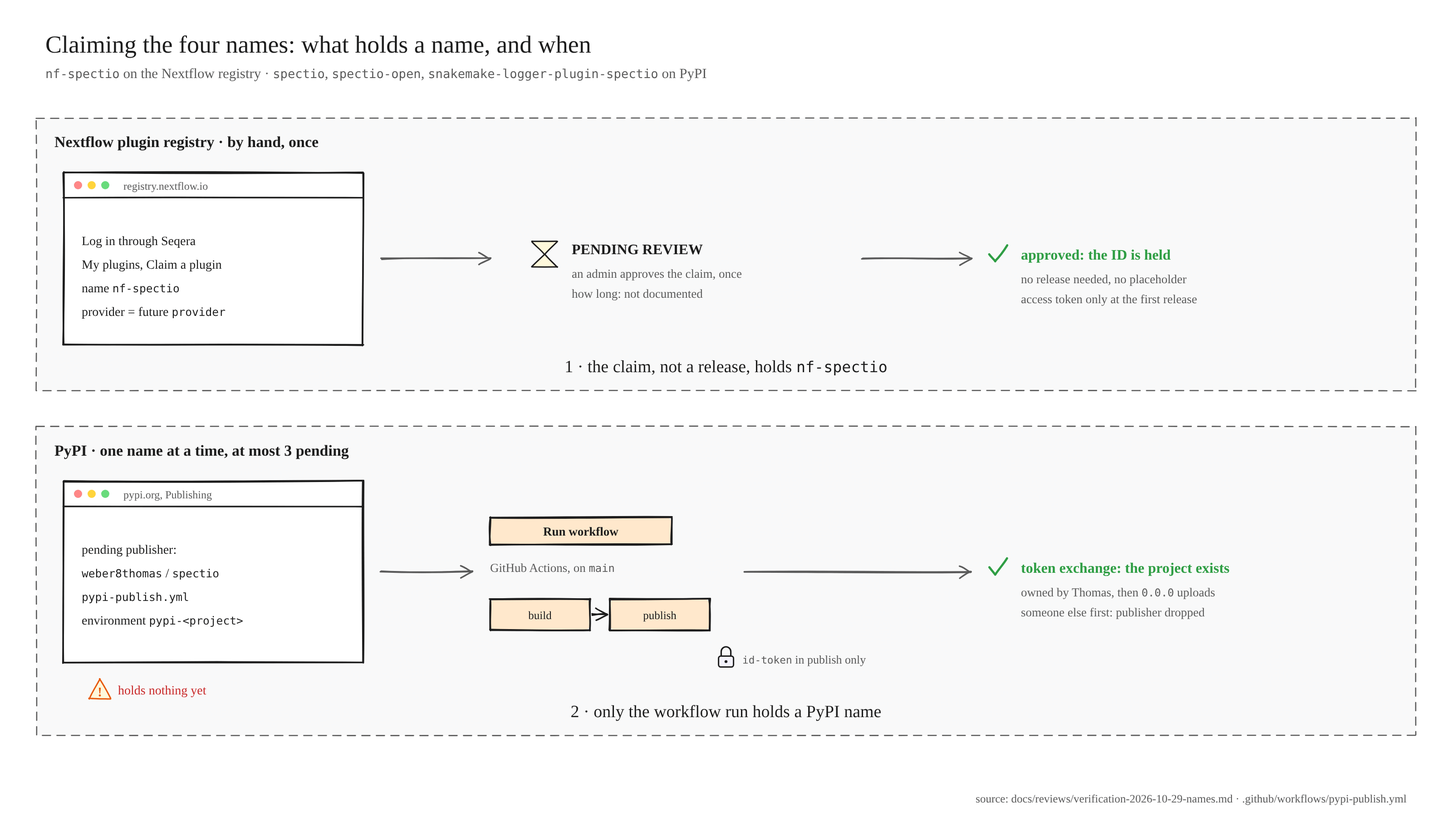
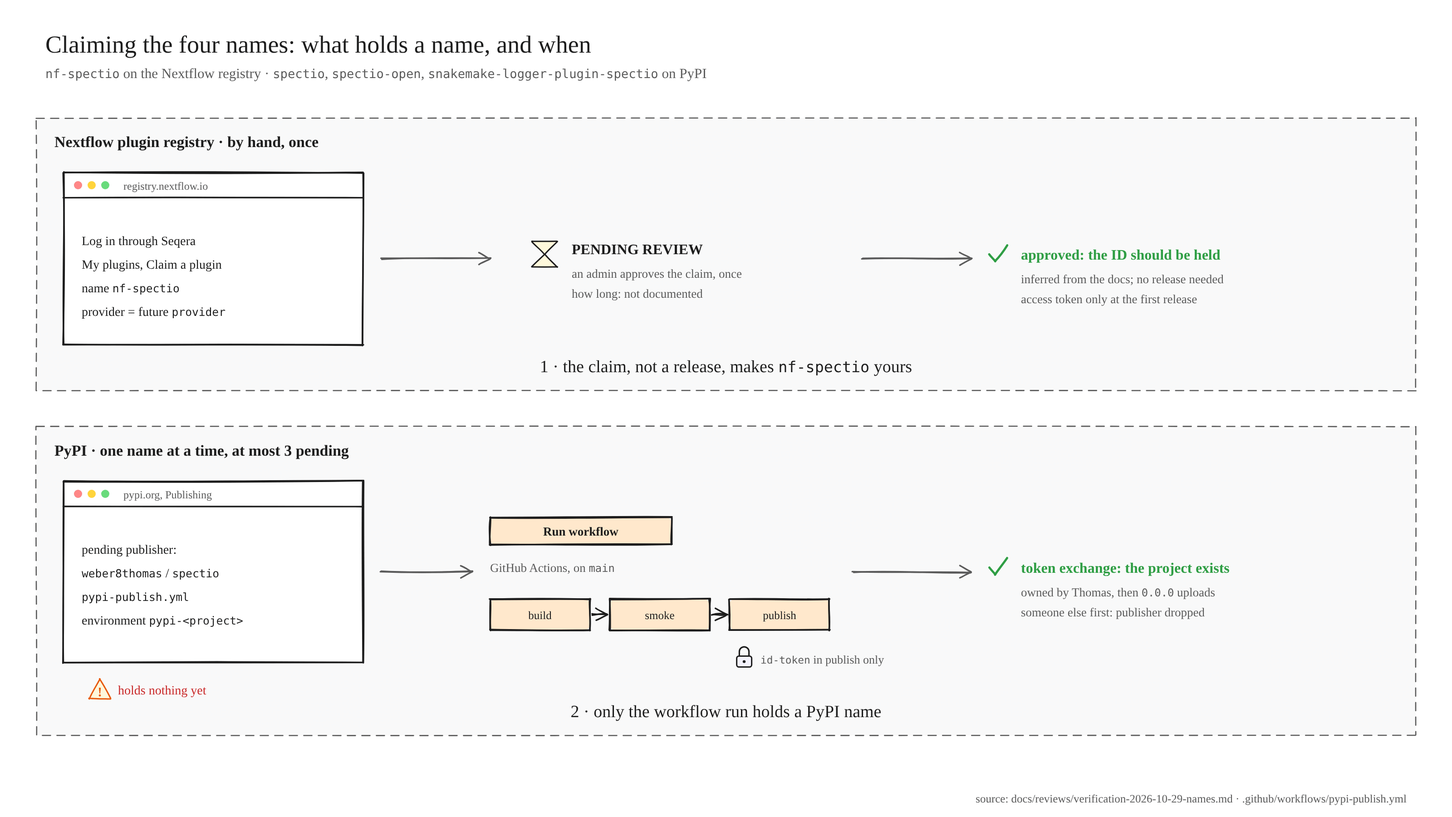
docs(release): record round 2 of the NAMES review and hedge the Nextflow outcome
- Guide §2.2: no agent session holds a token of the reviewer's account
  with actions:write or deployment approval (SEC-1b); §2.4 follows the
  new job split; §4 links inbox #71.
- Inbox #71 asks Thomas about deny rules for the commands that start or
  approve a publish; #66's status is hedged (CR-009).
- The figure draws build, smoke, publish and says the approved claim
  should hold the ID; both themes re-rendered.
- Progress page: review approve 12/14, the §3.2 headings, new evidence.
- Review record: round 2 verdicts and every finding's status.

Claude-Session: https://claude.ai/code/session_01MF8RxP4jdhwH8cJGq3VUWM

diff --git a/tools/diagrams/name_claim.py b/tools/diagrams/name_claim.py
@@ -6,12 +6,13 @@ Writes docs/assets/diagrams/name-claim_{light,dark}.{svg,png}.
 Every fact comes from docs/reviews/verification-2026-10-29-names.md (FC-314 to FC-317) and
 .github/workflows/pypi-publish.yml:
 - registry.nextflow.io: sign in through Seqera, My plugins, Claim a plugin with a name and a provider;
-  the claim waits as PENDING REVIEW until an admin approves it; an approved claim holds the ID with no
-  release (nextflow docs/plugins/plugin-registry.mdx:14-40, docs/guides/gradle-plugin.mdx:107-111);
+  the claim waits as PENDING REVIEW until an admin approves it; an approved claim should hold the ID with no
+  release, inferred (nextflow docs/plugins/plugin-registry.mdx:14-40, docs/guides/gradle-plugin.mdx:107-111);
 - pypi.org: a pending publisher does not hold the name; the project exists, owned by the account that
   registered the publisher, the first time the workflow exchanges its token, before any upload
   (warehouse creating-a-project-through-oidc.md:28-35, oidc/views.py:208-294); at most 3 pending;
-- the workflow: build job without id-token, publish job in environment pypi-<project> with id-token.
+- the workflow: build runs only uv; smoke checks and installs a copy; publish, from main only, runs in
+  environment pypi-<project> and alone has id-token.
 """
 
 from __future__ import annotations
@@ -44,10 +45,10 @@ def build(theme: Theme) -> Sketch:
     s.text(630, top + 198, "how long: not documented", size=13.5, anchor="start", colour=t.dim)
     s.arrow(950, top + 155, 1070, top + 155, colour=t.dim)
     s.tick(1100, top + 150, size=10)
-    s.text(1125, top + 156, "approved: the ID is held", size=16, anchor="start", colour=t.good, weight="bold")
-    s.text(1125, top + 182, "no release needed, no placeholder", size=13.5, anchor="start", colour=t.dim)
+    s.text(1125, top + 156, "approved: the ID should be held", size=16, anchor="start", colour=t.good, weight="bold")
+    s.text(1125, top + 182, "inferred from the docs; no release needed", size=13.5, anchor="start", colour=t.dim)
     s.text(1125, top + 204, "access token only at the first release", size=13.5, anchor="start", colour=t.dim)
-    s.step(W / 2, top + 280, 1, "the claim, not a release, holds `nf-spectio`")
+    s.step(W / 2, top + 280, 1, "the claim, not a release, makes `nf-spectio` yours")
 
     # Lane 2: PyPI through the workflow
     top = 470
@@ -63,10 +64,10 @@ def build(theme: Theme) -> Sketch:
     s.arrow(420, top + 160, 520, top + 160, colour=t.dim)
     s.button(540, top + 100, 200, "Run workflow", fill="work")
     s.text(540, top + 160, "GitHub Actions, on `main`", size=13.5, anchor="start", colour=t.dim)
-    s.pipeline(540, top + 190, ("build", "publish"), w=110)
-    s.lock(800, top + 256, 11, fill="docs")
-    s.text(818, top + 261, "`id-token` in publish only", size=13, anchor="start", colour=t.dim)
-    s.arrow(820, top + 160, 1070, top + 160, colour=t.dim)
+    s.pipeline(540, top + 190, ("build", "smoke", "publish"), w=110)
+    s.lock(820, top + 256, 11, fill="docs")
+    s.text(838, top + 261, "`id-token` in publish only", size=13, anchor="start", colour=t.dim)
+    s.arrow(940, top + 160, 1070, top + 160, colour=t.dim)
     s.tick(1100, top + 155, size=10)
     s.text(1125, top + 161, "token exchange: the project exists", size=16, anchor="start", colour=t.good,
            weight="bold")

diff --git a/docs/progress/W4/NAMES.md b/docs/progress/W4/NAMES.md
@@ -3,30 +3,29 @@ step: NAMES
 wave: W4
 status: running
 pr: null
-review: changes
-review_score: 10/14
-review_ref: "doc-reviewer 2026-10-29, changes 10/14 on 0ca035f; six required changes applied with CR-001 to CR-005 and SEC-1 to SEC-6 (docs/reviews/code/NAMES.md); re-review pending"
+review: approve
+review_score: 12/14
+review_ref: "doc-reviewer 2026-10-29: changes 10/14 on 0ca035f, then approve 12/14 on 2433dc2 with three changes (applied in the final pass); code-reviewer and security-reviewer approve on 2433dc2 (docs/reviews/code/NAMES.md)"
 ---
 # NAMES · Prepare the four package-name claims
 
-!!! info "Running 2026-10-29 · branch `autopilot/pypi-name-claim` · Thomas: \"Pour PyPI, prépare-moi déjà ce qu'il faudrait faire dans un fichier ou sur le CI\" · nothing published, no token made, no workflow run · review round on `0ca035f`: code changes 0/1/4, security changes 0/1/5, doc changes 10/14, all applied · open for Thomas: SEC-1's agent deny rules, the placeholder version, the registry provider string, where the logger's catalogue page lives"
+!!! info "Running 2026-10-29 · branch `autopilot/pypi-name-claim` · Thomas: \"Pour PyPI, prépare-moi déjà ce qu'il faudrait faire dans un fichier ou sur le CI\" · nothing published, no token made, no workflow run · round 1 on `0ca035f`: code, security and doc changes, all applied · round 2 on `2433dc2`: code approve, security approve, doc approve 12/14, the remaining changes applied · open for Thomas: inbox #71 (agent deny rules), the placeholder version, the registry provider string, where the logger's catalogue page lives"
 
-![NAMES figure: on the Nextflow registry, Thomas logs in through Seqera and claims nf-spectio with a provider; the claim waits in PENDING REVIEW until an admin approves it, and the approved claim makes the ID his with no release. On PyPI, a pending publisher with owner weber8thomas, repository spectio, workflow pypi-publish.yml and environment pypi-<project> holds nothing; Run workflow on main runs build then publish, only publish has id-token, and the token exchange creates the project before the 0.0.0 upload](../../assets/diagrams/name-claim_light.png#only-light)
-![NAMES figure: on the Nextflow registry, Thomas logs in through Seqera and claims nf-spectio with a provider; the claim waits in PENDING REVIEW until an admin approves it, and the approved claim makes the ID his with no release. On PyPI, a pending publisher with owner weber8thomas, repository spectio, workflow pypi-publish.yml and environment pypi-<project> holds nothing; Run workflow on main runs build then publish, only publish has id-token, and the token exchange creates the project before the 0.0.0 upload](../../assets/diagrams/name-claim_dark.png#only-dark)
+![NAMES figure: on the Nextflow registry, Thomas logs in through Seqera and claims nf-spectio with a provider; the claim waits in PENDING REVIEW until an admin approves it, and the approved claim should then hold the ID with no release, an inference from the docs. On PyPI, a pending publisher with owner weber8thomas, repository spectio, workflow pypi-publish.yml and environment pypi-<project> holds nothing yet; Run workflow on main runs build, then smoke, then publish; only publish has id-token, and the token exchange creates the project before the 0.0.0 upload](../../assets/diagrams/name-claim_light.png#only-light)
+![NAMES figure: on the Nextflow registry, Thomas logs in through Seqera and claims nf-spectio with a provider; the claim waits in PENDING REVIEW until an admin approves it, and the approved claim should then hold the ID with no release, an inference from the docs. On PyPI, a pending publisher with owner weber8thomas, repository spectio, workflow pypi-publish.yml and environment pypi-<project> holds nothing yet; Run workflow on main runs build, then smoke, then publish; only publish has id-token, and the token exchange creates the project before the 0.0.0 upload](../../assets/diagrams/name-claim_dark.png#only-dark)
 
 ## What changed
 
 - **`.github/workflows/pypi-publish.yml`, new:** started by hand, one project per run (`spectio`, `spectio-open`, `snakemake-logger-plugin-spectio`), three jobs:
-    - `build`: `uv build`, the sha256 of each file as a step output, `dist/` uploaded; then `twine check --strict`, every classifier against `trove-classifiers`, and the wheel's file list against `wheel-contents.txt`;
-    - `smoke`: checks the sums and the file count, installs the wheel in a fresh venv, runs `tools/release/pypi-placeholders/smoke.py`;
-    - `publish`: only from `main`, in environment `pypi-<project>`, the only job with `id-token: write`; checks the sums again, then `pypa/gh-action-pypi-publish` v1.14.3 with `skip-existing`.
-- **`tools/release/pypi-placeholders/`, new:** three working `0.0.0` packages (`uv_build==0.11.32`, MIT, `Repository` URL). `spectio` and `spectio-open` install a command with `--version`. `snakemake-logger-plugin-spectio` is a Snakemake logger that appends one JSON line per log event to `--logger-spectio-file` (default `spectio-events.jsonl`), opened with `O_NOFOLLOW` and mode 0600.
-- **`dev/versions.env`:** `TWINE_VERSION=7.0.0`, `TROVE_CLASSIFIERS_VERSION=2026.9.21.13`.
+    - `build`: only uv and the pinned `uv_build` backend run: `uv build`, then `dist/` uploaded;
+    - `smoke`: on a downloaded copy, feeding nothing to `publish`: `twine check --strict`, the wheel's file list against `wheel-contents.txt`, the wheel installed in a fresh venv and `tools/release/pypi-placeholders/smoke.py` run;
+    - `publish`: needs both, only from `main`, in environment `pypi-<project>`, the only job with `id-token: write`; uploads the build job's files with `pypa/gh-action-pypi-publish` v1.14.3 and `skip-existing`.
+- **`tools/release/pypi-placeholders/`, new:** three working `0.0.0` packages (`uv_build==0.11.32`, MIT, `Repository` URL, no classifiers). `spectio` and `spectio-open` install a command with `--version`. `snakemake-logger-plugin-spectio` is a Snakemake logger that appends one JSON line per log event to `--logger-spectio-file` (default `spectio-events.jsonl`). It opens the file with `O_NOFOLLOW`, then refuses it unless `fstat` shows a regular file of the current user with one link, and sets it to 0600.
+- **`dev/versions.env`:** `TWINE_VERSION=7.0.0`.
 - **`.github/CODEOWNERS`:** `/tools/release/` is code-owned.
-- **Guide, new:** [Claim the package names](../../developer/claim-package-names.md): the registry claim, the GitHub environments and `main` protection, the pending publishers, the run, the manual fallback, open points.
+- **Guide, new:** [Claim the package names](../../developer/claim-package-names.md): the registry claim, `main` protection and the GitHub environments, the pending publishers, the run, the manual fallback, open points.
 - **Spec:** [dev-env §12](../../specs/dev-environment-and-testing.md#12-versioning-and-releases) Publishing: FC-314 to FC-317.
-- **Records:** the [name-claim verification](../../reviews/verification-2026-10-29-names.md), the [review record](../../reviews/code/NAMES.md), a [decision-log entry](../../decisions/log.md#2026-10-29-how-the-four-package-names-are-held), a status line on [inbox #66](../../reviews/inbox.md#66-claim-the-four-package-names-and-confirm-how-the-bridges-are-released).
-- **Figure, new:** `tools/diagrams/name_claim.py` and its four outputs, in `docs/assets/media.yaml`.
+- **Records:** the [name-claim verification](../../reviews/verification-2026-10-29-names.md), the [review record](../../reviews/code/NAMES.md), a [decision-log entry](../../decisions/log.md#2026-10-29-how-the-four-package-names-are-held), a status line on [inbox #66](../../reviews/inbox.md#66-claim-the-four-package-names-and-confirm-how-the-bridges-are-released) and a new [inbox #71](../../reviews/inbox.md#71-deny-agent-sessions-the-commands-that-start-or-approve-a-publish).
 
 ## Why
 
@@ -44,17 +43,25 @@ uv venv /tmp/v && uv pip install --python /tmp/v/bin/python /tmp/d/*.whl
 
 ## Evidence
 
-- **Jobs replayed locally** (every `run:` block of the three jobs, in order, with `GITHUB_OUTPUT` and the sums passed on): all steps exit 0 for the three projects; `bogus` stops at `::error::Unknown project: bogus`.
-- **Negative checks:**
-    - with `Framework :: Snakemake` put back, the build job fails with `invalid classifiers: ['Framework :: Snakemake']`;
-    - with an extra line in `wheel-contents.txt`, the build job fails on the `diff`;
-    - a file changed after its sum was recorded fails `sha256sum --check` (`FAILED`, exit 1).
-- **Smoke:** `smoke: <project> ok` for all three: `--version` prints `0.0.0`; the logger writes one valid JSON line; a symlinked path raises `OSError` and its target stays empty.
-- **Real Snakemake run** (snakemake 9.27.1, a one-rule Snakefile): `--logger spectio --logger-spectio-file events.jsonl` exits 0, writes 14 valid JSON lines (`workflow_started`, `run_info`, `job_started`, `job_info`, `job_finished`, `progress`, `resources_info`), file mode `600`. With `events.jsonl` a symlink to a missing file, the run stops with `OSError: [Errno 40] Too many levels of symbolic links` and the target is not created.
+- **Jobs replayed locally** (every `run:` block of the three jobs, in order): all steps exit 0 for the three projects, with `twine check` PASSED on each wheel and sdist and `smoke: <project> ok`; `bogus` stops at `::error::Unknown project: bogus`. An extra line in `wheel-contents.txt` fails the smoke job's `diff`.
+- **Smoke, logger** (`smoke.py`): one event written as valid JSON; refused: a symlinked path (target untouched), a second hard link, a file of another user; tightened: an existing 0666 file of ours ends at 0600; no settings object: the default `spectio-events.jsonl` in the working directory. The other-user case patches `os.getuid` to return another uid, since the test runs without root.
+- **The checks are live:** each of three mutants of the installed module fails `smoke.py`, with the assertion that names it. The mutants drop the uid check, drop the link-count check, or replace `fchmod` with `pass`.
+- **Settings can be None?** Through the CLI, no: snakemake 9.27.1 builds one settings object per `--logger` (`snakemake/cli.py:2085-2088`), and `get_settings` returns an instance filled from the dataclass defaults when no flag is given (snakemake-interface-common 1.23.0 `plugin_registry/plugin.py:223-231`). The interface types the argument `Optional[LogHandlerSettingsBase]` (snakemake-interface-logger-plugins 2.1.0 `base.py:19`), so an API caller may pass None; the handler then uses `LogHandlerSettings()`.
+- **Real Snakemake runs** (snakemake 9.27.1, a one-rule Snakefile):
+    - `--logger spectio --logger-spectio-file events.jsonl` exits 0 and writes 14 valid JSON lines (`workflow_started`, `run_info`, `job_started`, `job_info`, `job_finished`, `progress`, `resources_info`), mode `600`;
+    - `--logger spectio` with no flag writes 14 lines to `spectio-events.jsonl`;
+    - with `events.jsonl` a symlink to a missing file, the run stops with `OSError: [Errno 40] Too many levels of symbolic links`, and the target is not created.
+    - an existing 0666 `loose.jsonl` exits 0 and ends at mode `600`; a second hard link to the log file stops the run with `PermissionError: refusing …: not a regular file of ours with one link`.
 - **Linters:** actionlint (the repo's pinned binary, with shellcheck): clean. zizmor 1.31.1 `--offline --min-severity low`: no findings. The online audits need a token and run in CI.
 - **Docs:** `python3 tools/docs/check.py --base origin/autopilot/integration` and `mkdocs build --strict`: see the PR's Checks.
 
-## Findings filed
+## Figures and media
+
+- `name-claim` (light and dark), drawn by `tools/diagrams/name_claim.py`. It shows the two ways a name is held: the registry claim, and the PyPI pending publisher followed by the build, smoke and publish jobs. Both PNGs were looked at after each render.
+- No screenshots or casts: nothing in this step has a screen.
+
+## Findings and open questions
 
 - FC-314 to FC-317 ([verification](../../reviews/verification-2026-10-29-names.md)): applied to dev-env §12.
-- CR-001 to CR-005, SEC-1 to SEC-6, doc review 1 to 6 ([review record](../../reviews/code/NAMES.md)): applied, except SEC-1's permission part, open for Thomas.
+- CR-001 to CR-009, SEC-1 to SEC-7 and the doc reviews ([review record](../../reviews/code/NAMES.md)): applied, except SEC-1's permission part, now [inbox #71](../../reviews/inbox.md#71-deny-agent-sessions-the-commands-that-start-or-approve-a-publish).
+- Open for Thomas: inbox #71; the placeholder version (`0.0.0` proposed); the registry provider string; where the logger's catalogue page lives (verification, open point 9).

diff --git a/docs/reviews/code/NAMES.md b/docs/reviews/code/NAMES.md
@@ -1,18 +1,18 @@
 # Code review · NAMES, the PyPI name-claim workflow and packages
 
-Branch `autopilot/pypi-name-claim`, range `925ddb0..0ca035f` (first round), 2026-10-29. `code-reviewer`, `security-reviewer` and `doc-reviewer` ran in parallel on `0ca035f`; the coordinator accepted every finding. The code fixes are in `ce2f660` and `1ad7e3e` (the file count skips `dist/.gitignore`, which `uv build` writes); the docs fixes are in `44da735`. No `code-simplifier` pass: CR-005, the reviewer's simplify finding, was applied by hand. The step's page is [Progress · NAMES](../../progress/W4/NAMES.md).
+Branch `autopilot/pypi-name-claim`, 2026-10-29. Two rounds. Round 1: `code-reviewer`, `security-reviewer` and `doc-reviewer` ran in parallel on `0ca035f` (range `925ddb0..0ca035f`); the coordinator accepted every finding, fixed in `ce2f660`, `1ad7e3e` and `44da735`. Round 2: the same three passes re-ran on `2433dc2`; all three approve, with minor findings that the final pass applies (below). No `code-simplifier` pass: the reviewer's simplify findings (CR-005, CR-006, CR-007) were applied by hand. The step's page is [Progress · NAMES](../../progress/W4/NAMES.md).
 
 ```text
-CODE  step=NAMES  review=changes b/M/m=0/1/4  security=changes b/M/m=0/1/5  rounds=1  simplify=CR-005 by hand  tests=pass
+CODE  step=NAMES  review=approve b/M/m=0/0/4  security=approve b/M/m=0/0/3  rounds=2  simplify=CR-005,CR-006,CR-007 by hand  tests=pass
 ```
 
-| Pass | Round 1 (HEAD `0ca035f`) |
-|---|---|
-| `code-reviewer` | changes, b/M/m = 0/1/4 (one simplify) |
-| `security-reviewer` | changes, b/M/m = 0/1/5 |
-| `doc-reviewer` | changes, 10/14, six required changes; re-review pending |
+| Pass | Round 1 (HEAD `0ca035f`) | Round 2 (HEAD `2433dc2`) |
+|---|---|---|
+| `code-reviewer` | changes, b/M/m = 0/1/4 (one simplify) | approve, b/M/m = 0/0/4 (two simplify): CR-006 to CR-009 |
+| `security-reviewer` | changes, b/M/m = 0/1/5 | approve, b/M/m = 0/0/3: SEC-1b, SEC-7 and zizmor's pedantic "job has no `name:`"; plus a note on `settings` being `None` |
+| `doc-reviewer` | changes, 10/14, six required changes | approve, 12/14, three changes |
 
-Tests after the fixes: the shell of all three jobs replayed locally for each project (and `bogus` refused); `smoke.py` for each project; a one-rule Snakefile with `--logger spectio` on snakemake 9.27.1; the negative checks (an invalid classifier, a wrong wheel list, a changed file under its recorded sum, a symlinked log file) each fail as expected. Details on the [Progress page](../../progress/W4/NAMES.md#evidence).
+Tests after the final pass: the shell of all three jobs replayed locally for each project (and `bogus` refused); `smoke.py` for each project, including the logger's refusals; a one-rule Snakefile with `--logger spectio` on snakemake 9.27.1; the negative checks (a wrong wheel list, a symlinked log file, and three mutants of the logger's checks) each fail as expected. Details on the [Progress page](../../progress/W4/NAMES.md#evidence).
 
 ## Code review (CR-001 to CR-005)
 
@@ -30,10 +30,10 @@ These IDs are local to this record (the security reviewer's numbering for this s
 
 | Id | Severity | Finding | Status |
 |---|---|---|---|
-| SEC-1 | major | The required-reviewer gate is not independent of admins or of the agents | guide §2.2: admin bypass unticked on each `pypi-*` environment, no agent credential as reviewer or admin. **Open, Thomas:** the proposed `.claude/settings.json` deny rules for `gh workflow run`, `gh api …/pending_deployments`, `gh api …/dispatches` and `gh run rerun` are a permission change only Thomas may make (guide §4) |
+| SEC-1 | major | The required-reviewer gate is not independent of admins or of the agents | guide §2.2: admin bypass unticked on each `pypi-*` environment, no agent credential as reviewer or admin. **Open, Thomas:** the proposed `.claude/settings.json` deny rules for `gh workflow run`, `gh api …/pending_deployments`, `gh api …/dispatches` and `gh run rerun` are a permission change only Thomas may make; see SEC-1b below and [inbox #71](../inbox.md#71-deny-agent-sessions-the-commands-that-start-or-approve-a-publish) |
 | SEC-2 | minor | A missing or misnamed environment publishes with no protection | applied: `publish` runs only when `github.ref == 'refs/heads/main'` (`ce2f660`); the guide §2.2 quotes GitHub ("will create an environment … not have any protection rules") and has Thomas create and check the three environments before the first run |
 | SEC-3 | minor | The published package sources are not code-owned, and `main` is unprotected | applied: `/tools/release/ @weber8thomas` in `.github/CODEOWNERS` (`ce2f660`); branch protection on `main` with code-owner review is a prerequisite in the guide §2.2 (autopilot §8, inbox #8) |
-| SEC-4 | minor | The smoke test ran third-party code in the job that produces the artifact | applied (`ce2f660`): `build` records the sums and uploads `dist/` before installing any checker; `smoke` and `publish` check the sums (from the output of the build step itself) and the file count; twine, trove-classifiers, setup-uv's uv and the `uv_build` backend are pinned; the wheel's file list is compared with `wheel-contents.txt` |
+| SEC-4 | minor | The smoke test ran third-party code in the job that produces the artifact | applied, then simplified in round 2 (CR-006): `build` runs only checkout, uv and the pinned `uv_build` backend, then uploads `dist/`. Every checker (twine, the `wheel-contents.txt` diff, the smoke test) runs in `smoke`, on a downloaded copy that feeds nothing to `publish`. The round 1 sha256 hand-off is gone: the isolation holds without it, since an artifact name cannot be uploaded twice in a run and the job token is `contents: read` |
 | SEC-5 | minor | The logger followed symlinks and created its file with umask permissions | applied (`ce2f660`): `os.open(…, O_WRONLY|O_APPEND|O_CREAT|O_NOFOLLOW, 0o600)`; `smoke.py` checks that a symlinked path is refused and its target untouched; a real Snakemake run on a symlinked `--logger-spectio-file` stops with `OSError: [Errno 40]` and creates nothing |
 | SEC-6 | minor | The manual fallback left an account-wide token where it can leak | applied: the guide §2.5 enters the token only at twine's password prompt, never on the command line or in a file, uploads all three in one sitting and revokes the token at once |
 
@@ -41,9 +41,25 @@ These IDs are local to this record (the security reviewer's numbering for this s
 
 | Id | Finding | Status |
 |---|---|---|
-| 1 | `Framework :: Snakemake` is not a trove classifier; warehouse `forklift/metadata.py:239-242` refuses the upload | applied (`ce2f660`): removed; the build job checks every classifier against `trove-classifiers==2026.9.21.13` |
+| 1 | `Framework :: Snakemake` is not a trove classifier; warehouse `forklift/metadata.py:239-242` refuses the upload | applied (`ce2f660`), then met another way in round 2 (CR-007): the three packages carry no classifiers at all, so the inline checker and the `trove-classifiers` pin are gone |
 | 2 | The fallback commands fail as written | applied with CR-002 |
 | 3 | "The placeholder has both" is false for `docs/intro.md` | applied with CR-001 |
 | 4 | A build-kind change needs a Progress page, a `CODE` line and this record | applied: this record, [Progress · NAMES](../../progress/W4/NAMES.md), the PR body's Checks |
 | 5 | The GitHub facts in §2.2 were unsourced, and the path to `main` unstated | applied: three GitHub docs pages read 2026-10-29, quoted; the PR targets `autopilot/integration`, so the workflow reaches `main` through the promotion PR |
 | 6 | "An approved claim holds the ID" is an inference | applied: worded as an inference from `plugin-registry.mdx:16` and `gradle-plugin.mdx:109-111` in the guide, dev-env §12 and the decision log; refusal of a second claimant is not stated |
+
+## Round 2 (HEAD `2433dc2`)
+
+| Id | From | Severity | Finding | Status |
+|---|---|---|---|---|
+| CR-006 | code | minor (simplify) | The sha256 hand-off guards against what a simpler job split already prevents | applied: `build` is checkout, setup-uv, `uv build --out-dir dist`, upload; `twine check --strict` and the wheel-contents `diff` moved to `smoke`; the sums output, both sum checks, both file counts and the header comment dropped. `security-reviewer` agreed (SEC-4 above) |
+| CR-007 | code | minor (simplify) | The inline classifier checker repeats PyPI's own upload check | applied: classifiers dropped from the three `pyproject.toml` files; the checker and `TROVE_CLASSIFIERS_VERSION` removed (doc #1 above) |
+| CR-008 | code | minor | The uv version is written in five places with nothing to catch drift | accepted as is: the workflow is a one-shot name claim; no new tooling. Each copy says `= UV_VERSION in dev/versions.env` |
+| CR-009 | code | minor | The inbox #66 status and the figure stated the Nextflow outcome as fact | applied: the figure reads "approved: the ID should be held" and draws `build → smoke → publish`, both PNGs re-rendered and opened; inbox #66 says the claim should hold the ID, inferred (guide §1) |
+| SEC-1b | security | minor | The gate also fails if an agent session holds a token of the reviewer's account | applied: guide §2.2 says no agent session holds a token of the reviewer's account with `actions:write` or the right to approve deployments. The deny rules for `gh workflow run`, `gh api …pending_deployments`, `gh api …/dispatches` and `gh run rerun` are **open, Thomas:** [inbox #71](../inbox.md#71-deny-agent-sessions-the-commands-that-start-or-approve-a-publish), linked from guide §4 and the PR body |
+| SEC-7 | security | minor | `O_NOFOLLOW` does not stop a hard link, or a pre-existing file with loose permissions or another owner | applied: after `os.open`, `os.fstat`; the handler refuses unless the file is regular, owned by `os.getuid()` and has `st_nlink == 1`, then `os.fchmod(fd, 0o600)`. `smoke.py` covers a hard link (refused), another owner (refused; checked by patching `os.getuid` to return the real uid + 1, since a test cannot create a file owned by someone else without root) and a pre-existing 0666 file (tightened to 0600). Three mutants (no uid check, no link check, no `fchmod`) each make `smoke.py` fail |
+| zizmor pedantic | security | minor (informational) | The three jobs have no `name:` | accepted as is: the job ids `build`, `smoke` and `publish` already name them; zizmor's default persona reports nothing |
+| settings `None` | security | note | Can `settings` be `None`? | yes, from an API caller only: `LogHandlerBase` types it `Optional[LogHandlerSettingsBase]` (snakemake-interface-logger-plugins 2.1.0 `base.py:19`); the CLI always passes an instance (snakemake 9.27.1 `cli.py:2085-2088`, built from the dataclass defaults by snakemake-interface-common 1.23.0 `plugin_registry/plugin.py:223-231`). Handled: `self.settings or LogHandlerSettings()`; `smoke.py` builds `LogHandler(None, None)` and checks the default file is written |
+| doc 1 | docs | change | The figure and the inbox #66 status line | applied with CR-009; the Progress page's alt text says what the figure shows |
+| doc 2 | docs | change | The Progress page lacks the §3.2 headings | applied: "Figures and media" and "Findings and open questions" |
+| doc 3 | docs | change | The review state and verdicts are not recorded | applied: Progress front matter `review: approve`, `review_score: 12/14`; the approve verdicts in the `CODE` line above, here and in the PR body's Checks |

diff --git a/docs/developer/claim-package-names.md b/docs/developer/claim-package-names.md
@@ -41,6 +41,7 @@ GitHub facts below were read on 2026-10-29 in [Deployments and environments](htt
     - **Deployment branches and tags:** "Selected branches and tags", with the one rule `main`.
     - **Allow administrators to bypass configured protection rules:** unticked. "By default, administrators can bypass the protection rules" (Deployments and environments).
     - **Prevent self-review:** leave it off while Thomas is the only reviewer and starts the run himself; it stops "users who initiate a deployment" from approving it (Deployments and environments).
+    - No agent session holds a token of the reviewer's account with `actions:write` or the right to approve deployments: such a token could start the workflow and approve its own run.
     - Then open the environment page and check that it lists these rules.
 
 ### 2.3 On pypi.org: one pending publisher per name
@@ -61,9 +62,9 @@ For each name, **Your account**, then **Publishing** (`/manage/account/publishin
 ### 2.4 Run the workflow
 
 Actions, **pypi-publish**, **Run workflow** on `main`, pick the project, run, then approve the deployment to `pypi-<project>`. Three jobs:
-- `build` builds the package with `uv build`, records the sha256 of each file and uploads them before any checker is installed, then runs `twine check --strict`, checks every classifier against the pinned `trove-classifiers` and compares the wheel's file list with `wheel-contents.txt`;
-- `smoke` checks the sums, installs the wheel and runs `tools/release/pypi-placeholders/smoke.py` (the CLI's `--version`; for the logger, one event written as valid JSON, and a symlinked log file refused);
-- `publish` checks the sums again; it alone gets `id-token: write`, and uploads with `pypa/gh-action-pypi-publish` v1.14.3. Tool versions are pinned in `dev/versions.env`. The project is created, owned by the account that added the pending publisher, when the workflow exchanges its GitHub token, before any file is uploaded (`oidc/views.py:208-294`). Repeat for the other two names, then check `https://pypi.org/p/<name>`.
+- `build` runs only uv and the pinned `uv_build` backend: `uv build`, then uploads `dist/`. No third-party checker runs in the job that produces the files;
+- `smoke` works on a downloaded copy and feeds nothing to `publish`: `twine check --strict`, the wheel's file list against `wheel-contents.txt`, then installs the wheel and runs `tools/release/pypi-placeholders/smoke.py` (the CLI's `--version`; for the logger, one event written as valid JSON, a symlink, a hard link or another user's file refused, a loose file tightened to 0600);
+- `publish` needs both, runs only from `main`, and alone gets `id-token: write`; it uploads the build job's files with `pypa/gh-action-pypi-publish` v1.14.3. Tool versions are pinned in `dev/versions.env`. The project is created, owned by the account that added the pending publisher, when the workflow exchanges its GitHub token, before any file is uploaded (`oidc/views.py:208-294`). Repeat for the other two names, then check `https://pypi.org/p/<name>`.
 
 After the first run, the pending publisher becomes a normal trusted publisher on that project; later releases use the same workflow file and environment ([dev-env §12](../specs/dev-environment-and-testing.md#12-versioning-and-releases)).
 
@@ -89,6 +90,6 @@ If the workflow cannot run (the promotion is not merged, the Actions minutes are
 
 ## 4. Open points
 
-- **Agent permissions (SEC-1, Thomas decides).** The security review proposes that `.claude/settings.json` deny `gh workflow run`, `gh api …/pending_deployments`, `gh api …/dispatches` and `gh run rerun`, so no agent session can start or approve a publish. Claude does not edit its own permissions; until Thomas decides, the environments' required reviewer (§2.2) is the guard.
+- **Agent permissions (SEC-1, Thomas decides, [inbox #71](../reviews/inbox.md#71-deny-agent-sessions-the-commands-that-start-or-approve-a-publish)).** The security review proposes that `.claude/settings.json` deny `gh workflow run`, `gh api …/pending_deployments`, `gh api …/dispatches` and `gh run rerun`, so no agent session can start or approve a publish. Claude does not edit its own permissions; until Thomas decides, the environments' required reviewer (§2.2) is the guard.
 - **Where the logger's catalogue page lives.** A root `docs/intro.md` kept out of the MkDocs nav, or a separate repository for the bridge ([verification](../reviews/verification-2026-10-29-names.md), open point 9).
 - **Choices:** the placeholder version (`0.0.0` proposed) and the registry provider string.

diff --git a/docs/reviews/inbox.md b/docs/reviews/inbox.md
@@ -1014,7 +1014,7 @@ From the [spikes round](spikes.md): the differences that T2, T3, T4 and T7 measu
 - **Your part:** claim the plugin ID `nf-spectio` in the registry and the three PyPI names, and say whether the §12 default holds for the bridges.
 - **Assumed:** none. Task 26 stops at the dry run.
 - **Blocked:** the merge of the terminal-runs guide of P1 Task 25 (until then it installs the copies bundled in the wheel), and the first real release of the bridges. The rest of P1 is not blocked.
-- **Status 2026-10-29:** the procedure is checked and written down in [Claim the package names](../developer/claim-package-names.md): claim `nf-spectio` on the registry (an approved claim holds it, no release), then for each PyPI name add a pending publisher and run `pypi-publish.yml` at once, since a pending publisher alone holds nothing ([verification](verification-2026-10-29-names.md), FC-314 to FC-317). Two choices are yours: the provider string typed in the registry claim, and the placeholder version (`0.0.0` proposed). Also open: the Snakemake catalogue reads `docs/intro.md` at the root of this repository, where `docs/` is the MkDocs site, so the logger's catalogue page needs a home (verification, open point 9). *Still open until the four names are held.*
+- **Status 2026-10-29:** the procedure is checked and written down in [Claim the package names](../developer/claim-package-names.md): claim `nf-spectio` on the registry (an approved claim should hold it with no release; inferred from the docs, refusal of a second claimant not stated), then for each PyPI name add a pending publisher and run `pypi-publish.yml` at once, since a pending publisher alone holds nothing ([verification](verification-2026-10-29-names.md), FC-314 to FC-317). Two choices are yours: the provider string typed in the registry claim, and the placeholder version (`0.0.0` proposed). Also open: the Snakemake catalogue reads `docs/intro.md` at the root of this repository, where `docs/` is the MkDocs site, so the logger's catalogue page needs a home (verification, open point 9). *Still open until the four names are held.*
 
 ### #67 · Assumed: the engine setup is documented, not automated, in 0.0.1
 
@@ -1074,3 +1074,13 @@ From the [spikes round](spikes.md): the differences that T2, T3, T4 and T7 measu
 - **Recommendation:** the assumed options.
 - **Blocked:** nothing; P1 plans with them.
 
+### #71 · Deny agent sessions the commands that start or approve a publish
+
+- **Covers:** [Claim the package names](../developer/claim-package-names.md) §2.2 and §4; `.github/workflows/pypi-publish.yml`; `.claude/settings.json` (permissions, CODEOWNERS); [autopilot §4](../playbooks/autopilot.md) (permissions).
+- **Context:** the name-claim review (SEC-1, [record](code/NAMES.md)) found that the only guard on a PyPI publish is the `pypi-*` environments' required reviewer. An agent session holding a token of the reviewer's account with `actions:write`, or the right to approve deployments, could start the workflow and approve its own run. `.claude/settings.json` denies force-push and branch deletion today, not these commands. Claude does not change its own permissions.
+- **Options:**
+  - (a) add deny rules for `gh workflow run *`, `gh api *pending_deployments*`, `gh api */dispatches*` and `gh run rerun *` to `.claude/settings.json` (and `tools/autopilot/claude-settings.json`). Cost: the autopilot can no longer re-run a failed CI job with `gh run rerun` or start a workflow by hand; a person does it;
+  - (b) no deny rules; rely on the environments' required reviewer, admin bypass off, and no agent token with `actions:write`. Cost: one misconfigured token is enough to publish;
+  - (c) (a) for the publish-related calls only (`pending_deployments`, `dispatches`, and `gh workflow run pypi-publish*`), keeping `gh run rerun`. Cost: rules that match command text can be sidestepped by other spellings.
+- **Recommendation:** (a): the autopilot rarely needs these commands, and a publish should always start from a person.
+- **Blocked:** nothing; the first run of `pypi-publish.yml` should wait for this answer.
